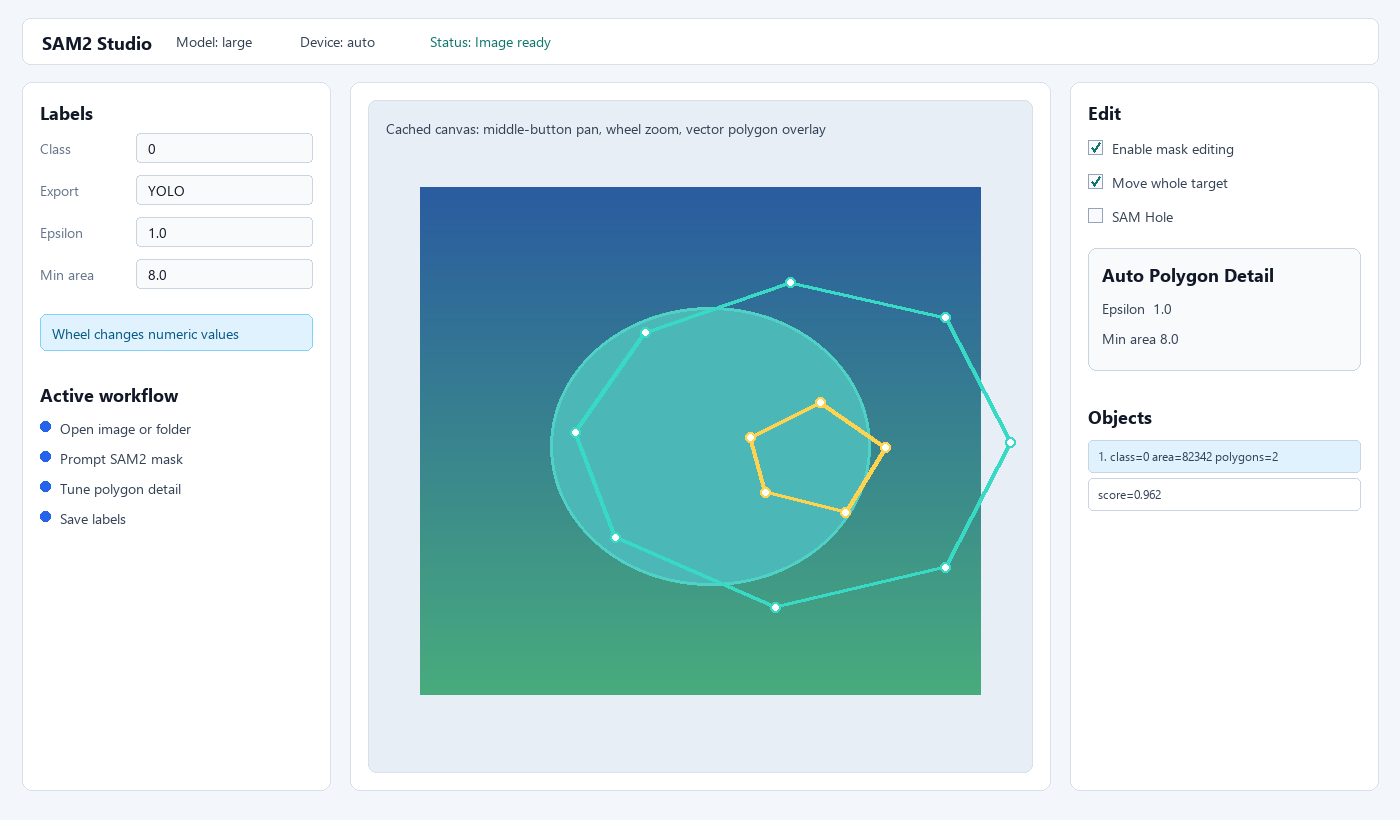
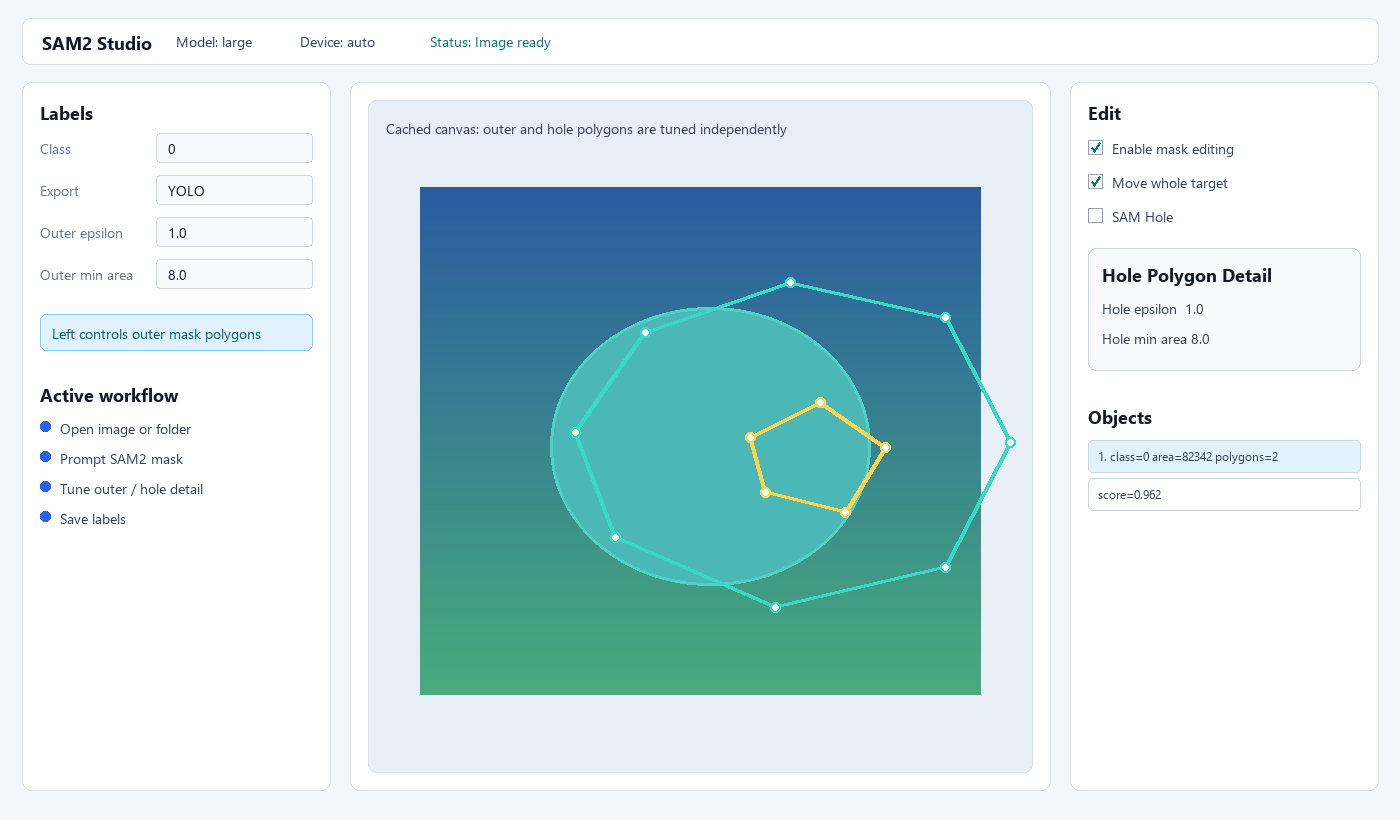
Split outer and hole polygon detail controls

diff --git a/utils/qt_gui.py b/utils/qt_gui.py
@@ -60,6 +60,7 @@ from utils.config import (
     SavedObject,
 )
 from utils.export_utils import (
+    mask_to_edit_polygons,
     mask_to_yolo_edit_polygons,
     normalize_yolo_edit_polygons,
     render_interactive_overlay,
@@ -838,7 +839,7 @@ class PySideSamWindow(QMainWindow):
         self.yolo_epsilon_spin.setSingleStep(0.5)
         self.yolo_epsilon_spin.setDecimals(1)
         self.yolo_epsilon_spin.setValue(2.0)
-        self.yolo_epsilon_spin.setPrefix("Epsilon ")
+        self.yolo_epsilon_spin.setPrefix("Outer epsilon ")
         self.yolo_epsilon_spin.valueChanged.connect(self.on_yolo_polygon_settings_changed)
         layout.addWidget(self.yolo_epsilon_spin)
 
@@ -847,7 +848,7 @@ class PySideSamWindow(QMainWindow):
         self.yolo_min_area_spin.setSingleStep(1.0)
         self.yolo_min_area_spin.setDecimals(1)
         self.yolo_min_area_spin.setValue(8.0)
-        self.yolo_min_area_spin.setPrefix("Min area ")
+        self.yolo_min_area_spin.setPrefix("Outer min area ")
         self.yolo_min_area_spin.valueChanged.connect(self.on_yolo_polygon_settings_changed)
         layout.addWidget(self.yolo_min_area_spin)
 
@@ -925,23 +926,23 @@ class PySideSamWindow(QMainWindow):
         self.move_target_combo.addItem("Move target: selected object", "object")
         layout.addWidget(self.move_target_combo)
 
-        layout.addWidget(self.section("Auto Polygon Detail"))
+        layout.addWidget(self.section("Hole Polygon Detail"))
         self.edit_yolo_epsilon_spin = StepWheelDoubleSpinBox()
         self.edit_yolo_epsilon_spin.setRange(0.0, 30.0)
         self.edit_yolo_epsilon_spin.setSingleStep(0.5)
         self.edit_yolo_epsilon_spin.setDecimals(1)
-        self.edit_yolo_epsilon_spin.setValue(float(self.yolo_epsilon_spin.value()))
-        self.edit_yolo_epsilon_spin.setPrefix("Epsilon ")
-        self.edit_yolo_epsilon_spin.valueChanged.connect(self.set_yolo_epsilon_from_edit)
+        self.edit_yolo_epsilon_spin.setValue(2.0)
+        self.edit_yolo_epsilon_spin.setPrefix("Hole epsilon ")
+        self.edit_yolo_epsilon_spin.valueChanged.connect(self.on_hole_polygon_settings_changed)
         layout.addWidget(self.edit_yolo_epsilon_spin)
 
         self.edit_yolo_min_area_spin = StepWheelDoubleSpinBox()
         self.edit_yolo_min_area_spin.setRange(0.0, 10000.0)
         self.edit_yolo_min_area_spin.setSingleStep(1.0)
         self.edit_yolo_min_area_spin.setDecimals(1)
-        self.edit_yolo_min_area_spin.setValue(float(self.yolo_min_area_spin.value()))
-        self.edit_yolo_min_area_spin.setPrefix("Min area ")
-        self.edit_yolo_min_area_spin.valueChanged.connect(self.set_yolo_min_area_from_edit)
+        self.edit_yolo_min_area_spin.setValue(8.0)
+        self.edit_yolo_min_area_spin.setPrefix("Hole min area ")
+        self.edit_yolo_min_area_spin.valueChanged.connect(self.on_hole_polygon_settings_changed)
         layout.addWidget(self.edit_yolo_min_area_spin)
 
         self.draft_polygon_combo = QComboBox()
@@ -2669,36 +2670,6 @@ class PySideSamWindow(QMainWindow):
             saved.mask = yolo_edit_polygons_to_mask(saved.yolo_polygons, self.image_np.shape)
             self.dirty = True
 
-    def sync_edit_polygon_detail_controls(self) -> None:
-        if hasattr(self, "edit_yolo_epsilon_spin"):
-            previous_block = self.edit_yolo_epsilon_spin.blockSignals(True)
-            try:
-                self.edit_yolo_epsilon_spin.setValue(float(self.yolo_epsilon_spin.value()))
-            finally:
-                self.edit_yolo_epsilon_spin.blockSignals(previous_block)
-        if hasattr(self, "edit_yolo_min_area_spin"):
-            previous_block = self.edit_yolo_min_area_spin.blockSignals(True)
-            try:
-                self.edit_yolo_min_area_spin.setValue(float(self.yolo_min_area_spin.value()))
-            finally:
-                self.edit_yolo_min_area_spin.blockSignals(previous_block)
-
-    def set_yolo_epsilon_from_edit(self, value: float) -> None:
-        previous_block = self.yolo_epsilon_spin.blockSignals(True)
-        try:
-            self.yolo_epsilon_spin.setValue(float(value))
-        finally:
-            self.yolo_epsilon_spin.blockSignals(previous_block)
-        self.on_yolo_polygon_settings_changed(value)
-
-    def set_yolo_min_area_from_edit(self, value: float) -> None:
-        previous_block = self.yolo_min_area_spin.blockSignals(True)
-        try:
-            self.yolo_min_area_spin.setValue(float(value))
-        finally:
-            self.yolo_min_area_spin.blockSignals(previous_block)
-        self.on_yolo_polygon_settings_changed(value)
-
     def polygon_detail_target_index(self) -> int | None:
         if self.current_mask is not None:
             return -1
@@ -2713,27 +2684,29 @@ class PySideSamWindow(QMainWindow):
             return 0
         return None
 
-    def regenerate_polygons_for_target(self, target_index: int) -> bool:
-        mask = self.mask_for_target(target_index)
-        if mask is None or not mask.any():
-            return False
-        existing_polygons = self.clone_yolo_polygons(self.polygons_for_target(target_index))
-        polygons = mask_to_yolo_edit_polygons(
-            mask,
-            epsilon=float(self.yolo_epsilon_spin.value()),
-            min_area=float(self.yolo_min_area_spin.value()),
-        )
-        if not polygons and existing_polygons:
-            self.set_status("Polygon detail produced no usable polygon; kept current polygons")
-            return False
-        if polygons == existing_polygons:
-            return False
-        self.push_undo_state("polygon detail")
+    def hole_epsilon(self) -> float:
+        return float(self.edit_yolo_epsilon_spin.value()) if hasattr(self, "edit_yolo_epsilon_spin") else 2.0
+
+    def hole_min_area(self) -> float:
+        return float(self.edit_yolo_min_area_spin.value()) if hasattr(self, "edit_yolo_min_area_spin") else 8.0
+
+    @staticmethod
+    def merge_polygons_by_mode(
+        add_polygons: Sequence[dict[str, object]],
+        subtract_polygons: Sequence[dict[str, object]],
+    ) -> list[dict[str, object]]:
+        return [
+            *PySideSamWindow.clone_yolo_polygons(add_polygons),
+            *PySideSamWindow.clone_yolo_polygons(subtract_polygons),
+        ]
+
+    def set_polygons_for_target(self, target_index: int, polygons: Sequence[dict[str, object]]) -> bool:
+        cloned = self.clone_yolo_polygons(polygons)
         if target_index == -1:
-            self.current_yolo_polygons = polygons
+            self.current_yolo_polygons = cloned
             self.current_yolo_dirty = False
         elif 0 <= target_index < len(self.saved_objects):
-            self.saved_objects[target_index].yolo_polygons = polygons
+            self.saved_objects[target_index].yolo_polygons = cloned
             self.dirty = True
         else:
             return False
@@ -2741,19 +2714,65 @@ class PySideSamWindow(QMainWindow):
         self.selected_vertex_index = -1
         return True
 
-    def on_yolo_polygon_settings_changed(self, _value) -> None:
-        self.sync_edit_polygon_detail_controls()
-        target_index = self.polygon_detail_target_index()
-        edit_enabled = bool(
-            hasattr(self, "polygon_edit_check") and self.polygon_edit_check.isChecked()
+    def regenerate_outer_polygons_for_target(self, target_index: int) -> bool:
+        mask = self.mask_for_target(target_index)
+        if mask is None or not mask.any():
+            return False
+        existing_polygons = self.clone_yolo_polygons(self.polygons_for_target(target_index))
+        existing_subtract = [item for item in existing_polygons if item.get("mode") == "subtract"]
+        new_add = mask_to_yolo_edit_polygons(
+            mask,
+            epsilon=float(self.yolo_epsilon_spin.value()),
+            min_area=float(self.yolo_min_area_spin.value()),
         )
+        if not new_add and any(item.get("mode") == "add" for item in existing_polygons):
+            self.set_status("Outer detail produced no usable polygon; kept current polygons")
+            return False
+        polygons = self.merge_polygons_by_mode(new_add, existing_subtract)
+        if polygons == existing_polygons:
+            return False
+        self.push_undo_state("outer polygon detail")
+        return self.set_polygons_for_target(target_index, polygons)
+
+    def regenerate_hole_polygons_for_target(self, target_index: int) -> bool:
+        mask = self.mask_for_target(target_index)
+        if mask is None or not mask.any():
+            return False
+        existing_polygons = self.clone_yolo_polygons(self.polygons_for_target(target_index))
+        existing_add = [item for item in existing_polygons if item.get("mode") == "add"]
+        existing_subtract = [item for item in existing_polygons if item.get("mode") == "subtract"]
+        extracted = mask_to_edit_polygons(
+            mask,
+            epsilon=self.hole_epsilon(),
+            min_area=self.hole_min_area(),
+        )
+        new_subtract = [item for item in extracted if item.get("mode") == "subtract"]
+        if not new_subtract:
+            if existing_subtract:
+                self.set_status("Hole detail produced no usable hole polygon; kept current holes")
+            else:
+                self.set_status("No inner hole polygon to refine")
+            return False
+        polygons = self.merge_polygons_by_mode(existing_add, new_subtract)
+        if polygons == existing_polygons:
+            return False
+        self.push_undo_state("hole polygon detail")
+        return self.set_polygons_for_target(target_index, polygons)
+
+    def on_yolo_polygon_settings_changed(self, _value) -> None:
+        target_index = self.polygon_detail_target_index()
         changed = False
         if target_index is not None:
-            can_regenerate = not edit_enabled
-            if target_index == -1 and not self.current_yolo_dirty:
-                can_regenerate = True
-            if can_regenerate:
-                changed = self.regenerate_polygons_for_target(target_index)
+            changed = self.regenerate_outer_polygons_for_target(target_index)
+        if changed and target_index is not None and target_index >= 0:
+            self.update_object_list()
+        self.render_canvas()
+
+    def on_hole_polygon_settings_changed(self, _value) -> None:
+        target_index = self.polygon_detail_target_index()
+        changed = False
+        if target_index is not None:
+            changed = self.regenerate_hole_polygons_for_target(target_index)
         if changed and target_index >= 0:
             self.update_object_list()
         self.render_canvas()
@@ -3068,8 +3087,8 @@ class PySideSamWindow(QMainWindow):
 
         hole_polygons = mask_to_yolo_edit_polygons(
             clipped_hole,
-            epsilon=float(self.yolo_epsilon_spin.value()),
-            min_area=float(self.yolo_min_area_spin.value()),
+            epsilon=self.hole_epsilon(),
+            min_area=self.hole_min_area(),
         )
         if not hole_polygons:
             self.set_status("SAM hole had no usable polygon")

diff --git a/README.md b/README.md
@@ -17,8 +17,8 @@ Windows desktop label-assist tool for building segmentation datasets with Meta's
 - Uses foreground/background prompts to create active SAM2 masks.
 - Applies optional Hough masking or center-crop preprocessing before annotation.
 - Converts masks into editable add/cut polygons, with undo support for manual edits.
-- Keeps manual polygon edits intact when edit mode is toggled; Epsilon / Min area only rebuild polygons when those values are changed.
-- Provides Epsilon / Min area controls from both the Labels and Edit tabs, including mouse-wheel value changes.
+- Keeps manual polygon edits intact when edit mode is toggled; polygon detail only rebuilds when those values are changed.
+- Splits polygon detail controls: the Labels tab adjusts outer mask polygons, while the Edit tab adjusts inner hole polygons.
 - Uses click-to-cut SAM Hole mode to create inner holes inside an existing mask target.
 - Moves an active SAM mask or selected saved object as one target for quick alignment.
 - Reuses crop and polygon templates across similar images.
@@ -40,7 +40,7 @@ Canvas interaction is optimized for repeated annotation work: the base image/ove
 2. Add foreground/background prompts to create an active SAM2 mask.
 3. Add the active mask to the object list.
 4. Refine the target with Polygon mode, whole-target move, or SAM Hole mode.
-5. Adjust Epsilon / Min area when you want a different polygon density.
+5. Adjust outer or hole Epsilon / Min area when you want a different polygon density.
 6. Capture a template when several images share the same crop and mask layout.
 7. Save labels, or use Save & Next to continue through the folder queue.
 